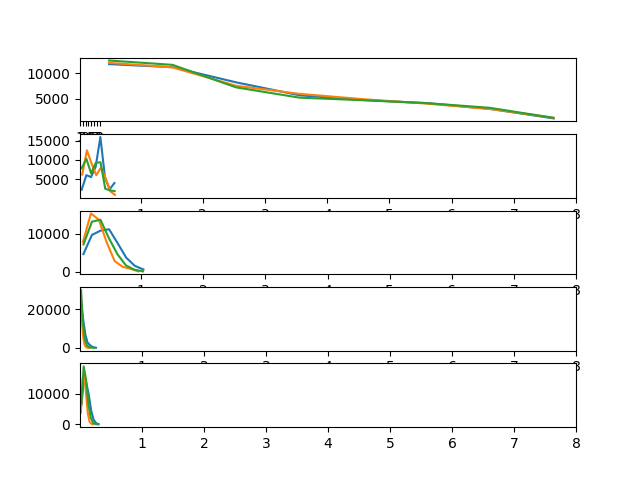
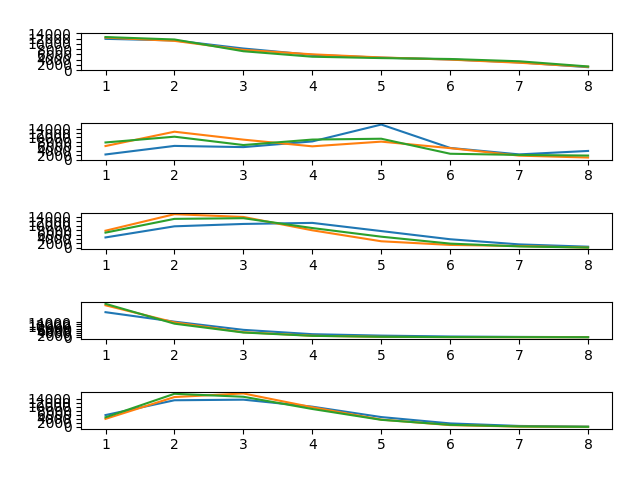
Added files

diff --git a/feature_extraction.py b/feature_extraction.py
@@ -302,7 +302,7 @@ def stats_to_fig(data,column_stat):
 if __name__=="__main__":
     #before this also rescale mesh with vertices and faces then we can normalize a query object towards same as database objects!
     features_df = pd.DataFrame(columns = ['id','surface_area', 'compactness','sphericity','volume','diameter','rectangulairty','eccentricity','curvature', 'A3', 'D1', 'D2', 'D3', 'D4'])
-    plt.figure(figsize=(10,5))
+    plt.figure(figsize=(5,10))
     fig, axs = plt.subplots(5)
     for i,mesh_file in enumerate(mesh_files):
     	#print(i, end='\r')  
@@ -484,27 +484,32 @@ if __name__=="__main__":
             bin_centers = np.arange(1,9)
             axs[0].plot(bin_centers, A3_descriptor)
             axs[0].set_xticks(np.arange(1,9))
+            axs[0].set_yticks(np.arange(0,16000,2000))
 
 
             D1_descriptor, x = np.histogram(D1,bins=8)
             bin_centers = np.arange(1,9)
             axs[1].plot(bin_centers, D1_descriptor)
             axs[1].set_xticks(np.arange(1,9))
+            axs[1].set_yticks(np.arange(0,16000,2000))
 
             D2_descriptor, x = np.histogram(D2,bins=8)
             bin_centers = np.arange(1,9)
             axs[2].plot(bin_centers, D2_descriptor)
             axs[2].set_xticks(np.arange(1,9))
+            axs[2].set_yticks(np.arange(0,16000,2000))
 
             D3_descriptor, x = np.histogram(D3,bins=8)
             bin_centers = np.arange(1,9)
             axs[3].plot(bin_centers, D3_descriptor)
             axs[3].set_xticks(np.arange(1,9))
+            axs[3].set_yticks(np.arange(0,16000,2000))
 
             D4_descriptor, x = np.histogram(D4,bins=8)
             bin_centers = np.arange(1,9)
             axs[4].plot(bin_centers, D4_descriptor)
             axs[4].set_xticks(np.arange(1,9))
+            axs[4].set_yticks(np.arange(0,16000,2000))
 
             features.append(A3_descriptor)
             features.append(D1_descriptor)
@@ -515,6 +520,8 @@ if __name__=="__main__":
             # print(len(features_df.columns))
             features_df.loc[len(features_df)] = features
             features_df.to_csv (r'features_df.csv', index = False, header=True)
+            fig.tight_layout(pad=2.0)
+            print(i)
             if(i==2):
             	plt.savefig('shape_descriptors.png')
             	plt.show()
